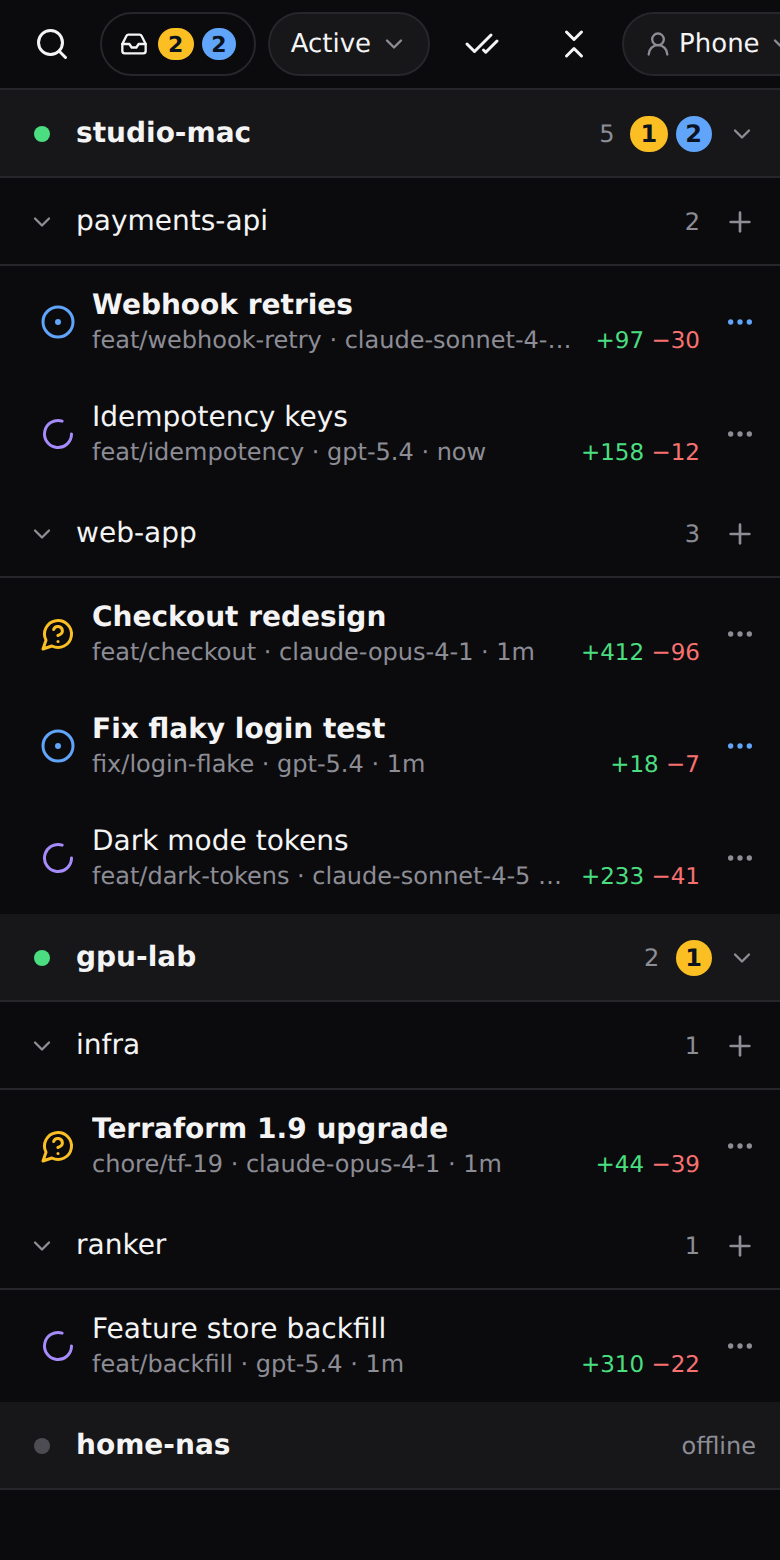
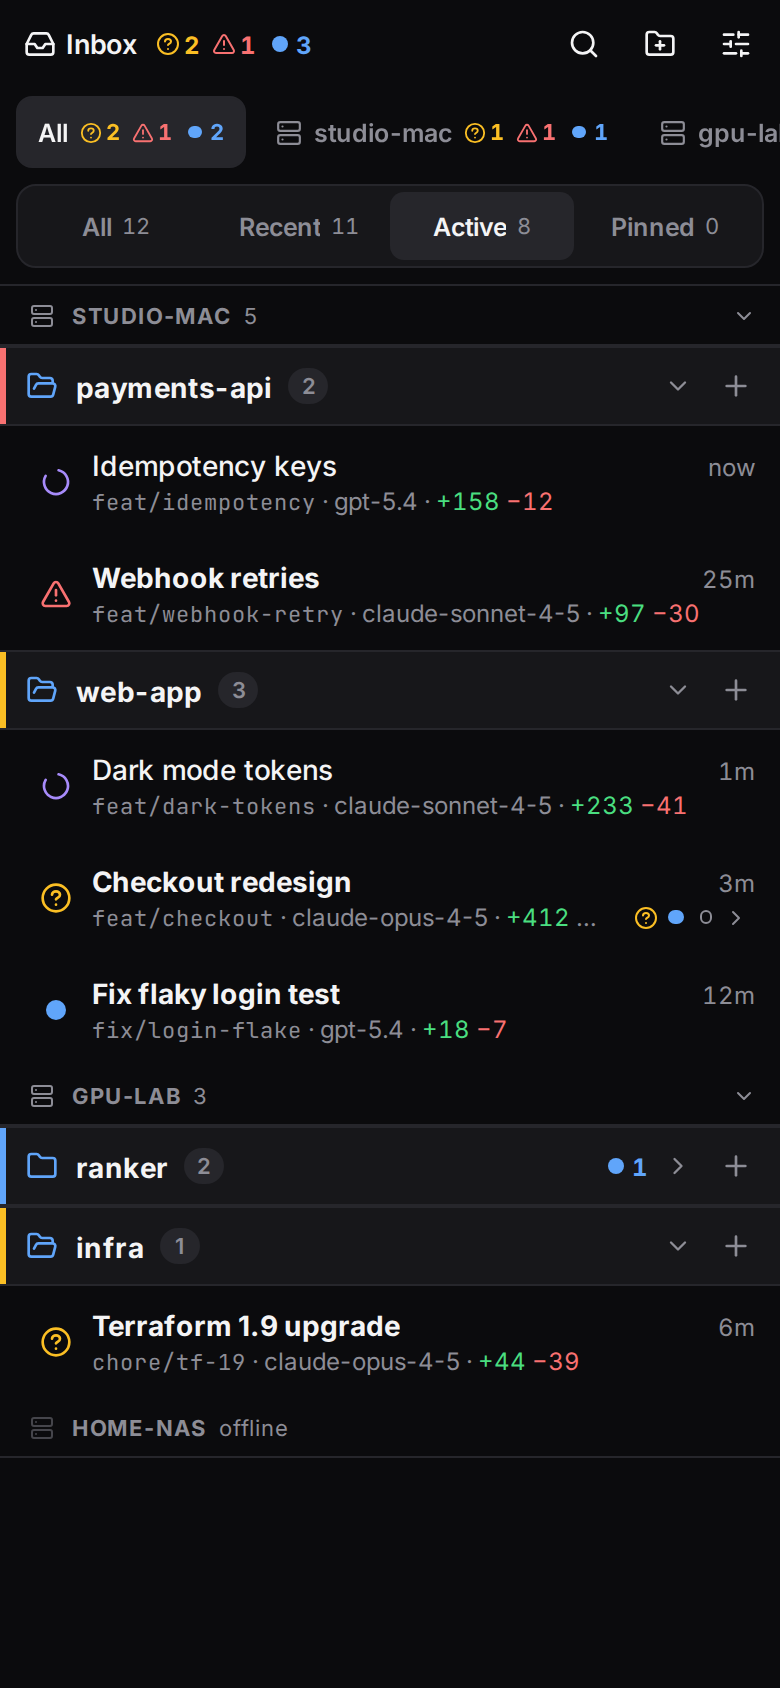
README: current screenshots (Inbox with answers, host tabs, settings preview and profiles, inbox popover); drop drag and old profile shots

diff --git a/README.md b/README.md
@@ -3,9 +3,9 @@
 A Host → Project → Workspace tree for [Paseo](https://paseo.sh) on the phone, desktop and web. It shows every workspace on every connected host in one place, with an Inbox of what needs you. Formerly "Phone Navigator".
 
 <p>
-  <img src="docs/screenshots/phone-active.png" width="230" alt="Active filter on the phone">
-  <img src="docs/screenshots/phone-inbox.png" width="230" alt="Inbox: asking you and unread">
-  <img src="docs/screenshots/phone-drag.png" width="230" alt="Manual ordering by long-press drag">
+  <img src="docs/screenshots/phone-active.png" width="230" alt="Active view on the phone, with host tabs">
+  <img src="docs/screenshots/phone-inbox.png" width="230" alt="Inbox: answer a permission with Allow or Deny, see a failed chat's error">
+  <img src="docs/screenshots/phone-all.png" width="230" alt="All view: a workspace's tabs listed, sub-agents under their chat">
 </p>
 
 ## Features
@@ -25,15 +25,15 @@ A Host → Project → Workspace tree for [Paseo](https://paseo.sh) on the phone
 - **Profiles.** Phone and Desktop come built in, and you can add your own. A profile holds the density, how you pick the host, the view it opens on, what Recent means, the row lines, order, pins, hidden hosts and the collapse state. The settings screen shows a live preview above the settings (every tab but Profile) that follows each change: host switch, opening view, row lines, open marker, hidden hosts, order grips, folding defaults. It uses sample workspaces on your host names and stays in place while the settings scroll.
 - **Entry points.** A "Workspaces" row in the sidebar, a sidebar view (Paseo 0.16), header buttons on every workspace (Workspaces, then Mark read), pills under each chat's message field, and a Command Center entry.
 
-The screenshots below show the previous version.
-
-| Desktop | Settings | Profiles | Search |
+| Desktop sidebar | Inbox pill popover | Search | Row actions |
 | --- | --- | --- | --- |
-| <img src="docs/screenshots/desktop.png" width="260"> | <img src="docs/screenshots/settings.png" width="200"> | <img src="docs/screenshots/phone-profiles.png" width="160"> | <img src="docs/screenshots/phone-search.png" width="160"> |
+| <img src="docs/screenshots/desktop.png" width="260"> | <img src="docs/screenshots/inbox-popover.png" width="200"> | <img src="docs/screenshots/phone-search.png" width="160"> | <img src="docs/screenshots/phone-row-menu.png" width="160"> |
+| All hosts under thin dividers; the open workspace marked with a bar | Back and Forward, then the Inbox with its answers | Matches across hosts, named under each row | Details card on top, then pin, mark read, Recent, rename, archive |
 
-| All, with a pin | Row actions | New workspace |
-| --- | --- | --- |
-| <img src="docs/screenshots/phone-all.png" width="200"> | <img src="docs/screenshots/phone-row-menu.png" width="200"> | <img src="docs/screenshots/phone-new-workspace.png" width="200"> |
+| Settings: Rows | Settings: Profile | New workspace | Sidebar row |
+| --- | --- | --- | --- |
+| <img src="docs/screenshots/settings.png" width="200"> | <img src="docs/screenshots/settings-profile.png" width="200"> | <img src="docs/screenshots/phone-new-workspace.png" width="200"> | <img src="docs/screenshots/sidebar.png" width="200"> |
+| Line editor under the live preview | Built-in and own profiles, per platform and device | Worktree or folder, agent, model, thinking, mode, options | "Workspaces" with the Inbox counts |
 
 See [OVERVIEW.md](OVERVIEW.md) for more detail.
 
